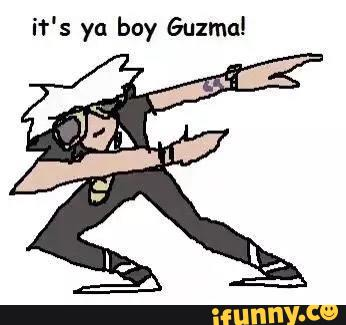
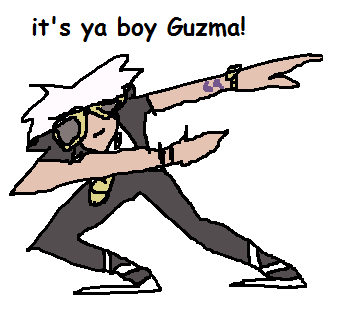
Fixed ifunny.

Changed region(s): [[0.0, 0.142, 1.0, 1.0], [0.2312, 0.0284, 0.7225, 0.142], [0.0867, 0.0568, 0.2023, 0.1136]]

diff --git a/Mspa.java b/Mspa.java
@@ -351,7 +351,7 @@ public class Mspa{
 	}
 
 	@EventSubscriber
-	public void message(MessageReceivedEvent e) throws RateLimitException{
+	public void message(MessageReceivedEvent e){
 		if(e.getMessage().getAuthor().isBot() || e.getMessage() == null || e.getMessage().getContent() == null){
 			return;
 		}
@@ -365,7 +365,13 @@ public class Mspa{
 			return;
 		}
 		try{
-			String msg = e.getMessage().getContent().replaceAll("@everyone", "Kolechia").replaceAll("@here", "North Korea");
+			String msg = "";
+			try{
+				msg = e.getMessage().getContent().replaceAll("@everyone", "Kolechia").replaceAll("@here", "North Korea");
+			}
+			catch(NullPointerException npe){
+				System.exit(1);
+			}
 			IChannel chan = e.getMessage().getChannel();
 			Matcher matchkek = keks.matcher(msg);
 			if(chan instanceof IPrivateChannel){
@@ -435,7 +441,9 @@ public class Mspa{
 						msgs = new ArrayList<String>();
 					}
 					msgs.add(m.getID());
-					logmsg.put(chan.getID(), msgs);
+					synchronized(logmsg){
+						logmsg.put(chan.getID(), msgs);
+					}
 				}
 				while(!rev.empty()){
 					IMessage m = rev.pop();
@@ -640,8 +648,11 @@ public class Mspa{
 			if(msg.contains(":celebrate:")){
 				chan.sendFile(new File("./celebrate.png"));
 			}
-			if(msg.contains(":guzma")){
+			if(msg.contains(":guzma:")){
 				chan.sendFile(new File("./guzma.png"));
+			}
+			if(msg.contains(":gazmu:")){
+				chan.sendFile(new File("./gazmu.png"));
 			}
 			if(msg.contains(":cents:")){
 				chan.sendFile(new File("./cents.png"));
@@ -941,7 +952,8 @@ public class Mspa{
 						+ ":...: w h a t a r e y o u d o i n g\n"
 						+ ":wtf: your actions confuse me\n"
 						+ ":whatdidyoudo: cueball\n"
-						+ ":nodeal: but what if bill```");
+						+ ":nodeal: but what if bill\n"
+						+ ":gazmu: oh [deity] no```");
 				if(!(chan instanceof IPrivateChannel) && chan.getGuild().getID().equals(lock)){
 					pm.sendMessage("```:rip: i can't believe america is dead\n"
 							+ ":bone: the prize is a bone\n"
@@ -1341,14 +1353,18 @@ public class Mspa{
 			oout.writeObject((Long)wall);
 			oout.close();
 			fout.close();
-			fout = new FileOutputStream(new File("./logmsg"));
-			oout = new ObjectOutputStream(fout);
-			oout.writeObject(logmsg);
-			oout.close();
-			fout.close();
+			synchronized(logmsg){
+				fout = new FileOutputStream(new File("./logmsg"));
+				oout = new ObjectOutputStream(fout);
+				oout.writeObject(logmsg);
+				oout.close();
+				fout.close();
+			}
 		}
 		catch(Exception exc){
-			exc.printStackTrace();
+			if(!(exc instanceof RateLimitException)){
+				exc.printStackTrace();
+			}
 		}
 	}
 	public class Facts{
